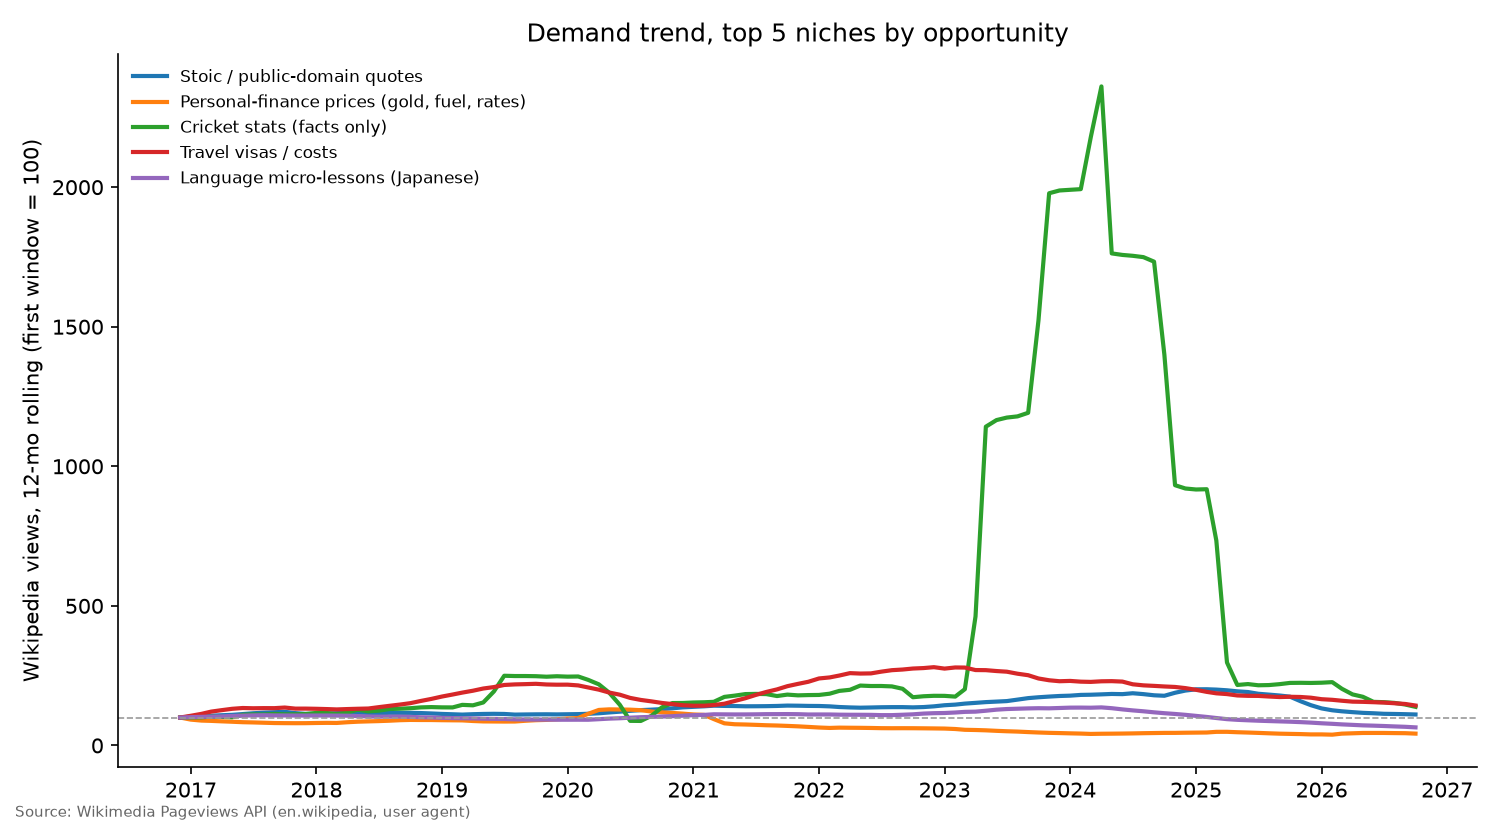
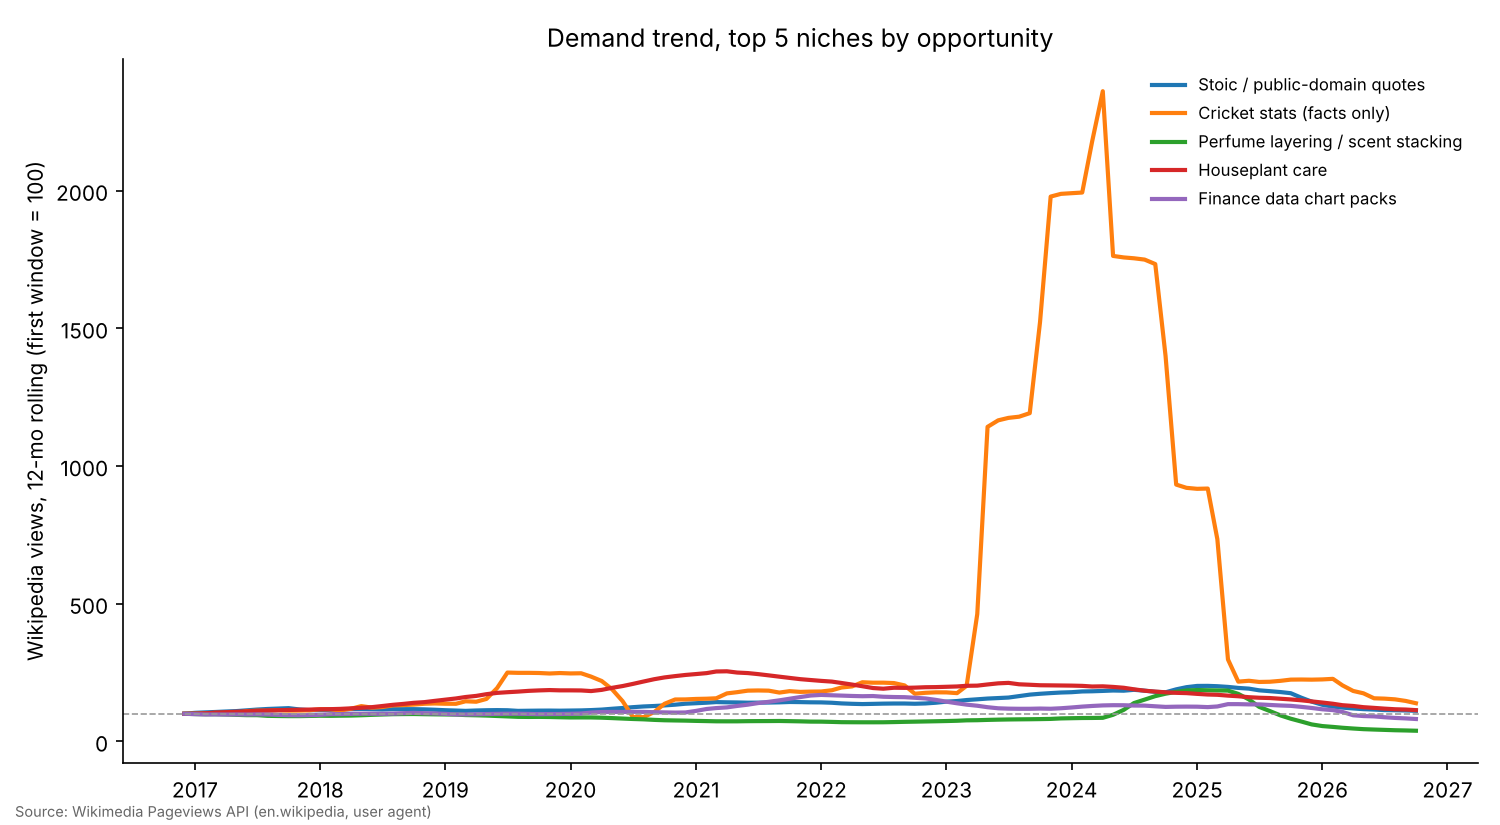
YouTube supply: exclude counts at the 1M cap, use 14-day windows
33 of 40 keyword counts over 90 days hit search.list's 1,000,000 totalResults
cap, making supply growth 1.0 by construction. Capped ratios are now excluded,
the window shortens to 14 days, and dashboards rank by opportunity only once
15+ niches have a usable supply figure.

Claude-Session: https://claude.ai/code/session_0189qJpcis24b27DHT951f51

diff --git a/docs/index.html b/docs/index.html
@@ -200,6 +200,7 @@ G_d  demand growth  = geomean(wiki_yoy, trends_yoy)
        trends_yoy   = geomean over keywords of (mean last 52 wks ÷ mean previous 52),
                       each keyword queried alone so it keeps full 0–100 resolution
 G_s  supply growth  = geomean over keywords of (videos_recent + 1) ÷ (videos_prior_year + 1)
+                      over 14-day windows; counts at YouTube's 1,000,000 cap are excluded
 P_d  demand size    = percentile rank of mean z( log wiki views, log Trends level, log Reddit subs )
 M    money weight   = niche mid RPM ÷ median mid RPM  (1.0 while pending)</div>
       </div>
@@ -355,8 +356,11 @@ M    money weight   = niche mid RPM ÷ median mid RPM  (1.0 while pending)</div>
   let selected = null;
   // Rank by opportunity once any niche has one; until then by demand growth.
   let rankKey = "opportunity";
+  const MIN_SCORED = 15;
   function ranked() {
-    rankKey = D.scores.some((r) => isFinite(num(r.opportunity))) ? "opportunity" : "demand_growth";
+    // Opportunity needs a real supply figure; rank by it only once most niches have one.
+    const scored = D.scores.filter((r) => isFinite(num(r.opportunity))).length;
+    rankKey = scored >= MIN_SCORED ? "opportunity" : "demand_growth";
     return D.scores
       .filter((r) => isFinite(num(r[rankKey])))
       .sort((a, b) => num(b[rankKey]) - num(a[rankKey]));
@@ -371,13 +375,13 @@ M    money weight   = niche mid RPM ÷ median mid RPM  (1.0 while pending)</div>
       pickName.textContent = top.niche;
       document.getElementById("pick-label").textContent = rankKey === "opportunity"
         ? "Current #1 by opportunity (provisional)"
-        : "Leading on demand growth (YouTube supply pending)";
+        : "Leading on demand growth (supply data incomplete)";
       document.getElementById("k-opp").textContent = fmt.dec(top.opportunity);
       document.getElementById("k-dg").textContent = fmt.pctChange(top.demand_growth);
       document.getElementById("k-sg").textContent = fmt.pctChange(top.supply_growth);
       const add = (t, c) => { const s = document.createElement("span"); s.className = "chip " + c; s.textContent = t; s.style.marginRight = "6px"; chips.appendChild(s); };
       add(top.money_flag === "cited" ? "money: cited" : "money: estimate pending", top.money_flag === "cited" ? "ok" : "warn");
-      if (rankKey !== "opportunity") add("ranked by demand only until YouTube data lands", "warn");
+      if (rankKey !== "opportunity") add("ranked by demand: too few niches have usable YouTube counts", "warn");
       add("needs competitor check", "warn");
       selected = selected || top.niche_id;
     } else {

diff --git a/score.py b/score.py
@@ -108,6 +108,7 @@ def wiki_metrics(wiki: pd.DataFrame) -> tuple[pd.DataFrame, pd.DataFrame]:
 
 
 MIN_BATCH_PEAK = 20  # below this, integer rounding swamps a batched series
+YT_RESULTS_CAP = 1_000_000  # search.list never reports more than this
 MAX_ZERO_WEEKS = 13  # base year with more zero weeks is too sparse for a ratio
 
 
@@ -219,13 +220,21 @@ def youtube_metrics(yt: pd.DataFrame) -> pd.DataFrame:
     needed = {"total_results_est_recent", "total_results_est_prior_year"}
     if not needed.issubset(wide.columns):
         return pd.DataFrame()
+    # YouTube caps totalResults at 1,000,000: a capped count is a floor, not a
+    # measurement, so its ratio is excluded rather than read as "no growth".
+    capped = (wide.total_results_est_recent >= YT_RESULTS_CAP) | (
+        wide.total_results_est_prior_year >= YT_RESULTS_CAP
+    )
     wide["supply_ratio"] = (wide.total_results_est_recent + 1) / (
         wide.total_results_est_prior_year + 1
     )
+    wide.loc[capped, "supply_ratio"] = np.nan
+    wide["capped"] = capped
     agg = wide.groupby("niche_id").agg(
         yt_videos_recent=("total_results_est_recent", "sum"),
         yt_videos_prior_year=("total_results_est_prior_year", "sum"),
         supply_growth=("supply_ratio", lambda s: geomean(list(s))),
+        yt_kw_capped=("capped", "sum"),
     )
     for col in ("median_views_per_day_recent", "median_views_per_sub_recent"):
         if col in wide.columns:

diff --git a/data/scores.md b/data/scores.md
@@ -1,22 +1,22 @@
 |   rank | niche                                       |   opportunity |   demand_growth |   supply_growth |   demand_size_pct |   money_weight | money_flag   |   wiki_monthly_median_12m |   wiki_yoy |   trends_yoy |   yt_videos_recent |   yt_videos_prior_year |
 |-------:|:--------------------------------------------|--------------:|----------------:|----------------:|------------------:|---------------:|:-------------|--------------------------:|-----------:|-------------:|-------------------:|-----------------------:|
-|      1 | Stoic / public-domain quotes                |         1.3   |           0.803 |           0.602 |              0.95 |            nan | pending      |                  2.63e+05 |      0.635 |        1.02  |            1158700 |                1437522 |
-|      2 | Personal-finance prices (gold, fuel, rates) |         1.13  |           1.46  |           1     |              0.6  |            nan | pending      |                  2.1e+04  |      1.02  |        2.09  |            2000000 |                2000000 |
-|      3 | Cricket stats (facts only)                  |         1.06  |           1.18  |           1.11  |              1    |            nan | pending      |                  3.24e+05 |      0.617 |        2.25  |            1874276 |                1710895 |
-|      4 | Travel visas / costs                        |         0.968 |           1.12  |           1     |              0.75 |            nan | pending      |                  6.6e+04  |      0.821 |        1.52  |            2000000 |                2000000 |
-|      5 | Language micro-lessons (Japanese)           |         0.952 |           1     |           1     |              0.9  |            nan | pending      |                  1.69e+05 |      0.761 |        1.32  |            2000000 |                2000000 |
-|      6 | Pet care data                               |         0.913 |           1.02  |           1     |              0.8  |            nan | pending      |                  8.17e+04 |      0.752 |        1.38  |            2000000 |                2000000 |
-|      7 | Rocket launches / space schedule            |         0.878 |           1.09  |           1     |              0.65 |            nan | pending      |                  1.08e+05 |      0.783 |        1.52  |            2000000 |                2000000 |
-|      8 | Perfume layering / scent stacking           |         0.789 |           1.01  |           0.286 |              0.05 |            nan | pending      |                  2.39e+04 |      0.468 |        2.17  |             495591 |                1746468 |
-|      9 | Cabbage / budget recipes                    |         0.771 |           1.22  |           1     |              0.4  |            nan | pending      |                  8.51e+04 |      0.747 |        1.99  |            2000000 |                2000000 |
-|     10 | Earthquakes / natural events                |         0.766 |           0.831 |           1     |              0.85 |            nan | pending      |                  8.65e+04 |      0.699 |        0.988 |            2000000 |                2000000 |
-|     11 | Baby names (open data)                      |         0.721 |           1.07  |           1     |              0.45 |            nan | pending      |                  4.98e+04 |      0.813 |        1.42  |            2000000 |                2000000 |
-|     12 | Geography quizzes                           |         0.71  |           0.958 |           1     |              0.55 |            nan | pending      |                  1.44e+05 |      0.862 |        1.06  |            2000000 |                2000000 |
-|     13 | "On this day" history                       |         0.62  |           1.13  |           1     |              0.3  |            nan | pending      |                  3.66e+04 |      0.754 |        1.7   |            2000000 |                2000000 |
-|     14 | Chess puzzles (Lichess CC0 DB)              |         0.56  |           0.946 |           1     |              0.35 |            nan | pending      |                  1.2e+05  |      0.586 |        1.53  |            2000000 |                2000000 |
-|     15 | Etymology / word origins                    |         0.559 |           1.12  |           1     |              0.25 |            nan | pending      |                  2.47e+04 |      0.817 |        1.53  |            2000000 |                2000000 |
-|     16 | Finance data chart packs                    |         0.474 |           0.818 |           1.44  |              0.7  |            nan | pending      |                  1.34e+05 |      0.629 |        1.06  |            1434942 |                1208506 |
-|     17 | Houseplant care                             |         0.461 |           1.38  |           0.946 |              0.1  |            nan | pending      |                  4.09e+04 |      0.744 |        2.55  |            1811768 |                1907479 |
-|     18 | Air quality / weather records               |         0.454 |           1.12  |           1.1   |              0.2  |            nan | pending      |                  2.92e+04 |      0.59  |        2.13  |            2000000 |                1821647 |
-|     19 | Nostalgia toys                              |         0.437 |           1.13  |           1     |              0.15 |            nan | pending      |                  6.1e+04  |      0.741 |        1.72  |            2000000 |                2000000 |
-|     20 | Night sky / astronomy                       |         0.232 |           0.858 |           2.61  |              0.5  |            nan | pending      |                  5.84e+04 |      0.761 |        0.968 |            1148855 |                1021777 |
+|      1 | Stoic / public-domain quotes                |        2.16   |           0.803 |           0.363 |              0.95 |            nan | pending      |                  2.63e+05 |      0.635 |        1.02  |            1158700 |                1437522 |
+|      2 | Cricket stats (facts only)                  |        0.957  |           1.18  |           1.23  |              1    |            nan | pending      |                  3.24e+05 |      0.617 |        2.25  |            1874276 |                1710895 |
+|      3 | Perfume layering / scent stacking           |        0.789  |           1.01  |           0.286 |              0.05 |            nan | pending      |                  2.39e+04 |      0.468 |        2.17  |             495591 |                1746468 |
+|      4 | Houseplant care                             |        0.487  |           1.38  |           0.895 |              0.1  |            nan | pending      |                  4.09e+04 |      0.744 |        2.55  |            1811768 |                1907479 |
+|      5 | Finance data chart packs                    |        0.328  |           0.818 |           2.09  |              0.7  |            nan | pending      |                  1.34e+05 |      0.629 |        1.06  |            1434942 |                1208506 |
+|      6 | Night sky / astronomy                       |        0.0888 |           0.858 |           6.84  |              0.5  |            nan | pending      |                  5.84e+04 |      0.761 |        0.968 |            1148855 |                1021777 |
+|    nan | Nostalgia toys                              |      nan      |           1.13  |         nan     |              0.15 |            nan | pending      |                  6.1e+04  |      0.741 |        1.72  |            2000000 |                2000000 |
+|    nan | Cabbage / budget recipes                    |      nan      |           1.22  |         nan     |              0.4  |            nan | pending      |                  8.51e+04 |      0.747 |        1.99  |            2000000 |                2000000 |
+|    nan | Geography quizzes                           |      nan      |           0.958 |         nan     |              0.55 |            nan | pending      |                  1.44e+05 |      0.862 |        1.06  |            2000000 |                2000000 |
+|    nan | Personal-finance prices (gold, fuel, rates) |      nan      |           1.46  |         nan     |              0.6  |            nan | pending      |                  2.1e+04  |      1.02  |        2.09  |            2000000 |                2000000 |
+|    nan | Pet care data                               |      nan      |           1.02  |         nan     |              0.8  |            nan | pending      |                  8.17e+04 |      0.752 |        1.38  |            2000000 |                2000000 |
+|    nan | Travel visas / costs                        |      nan      |           1.12  |         nan     |              0.75 |            nan | pending      |                  6.6e+04  |      0.821 |        1.52  |            2000000 |                2000000 |
+|    nan | Baby names (open data)                      |      nan      |           1.07  |         nan     |              0.45 |            nan | pending      |                  4.98e+04 |      0.813 |        1.42  |            2000000 |                2000000 |
+|    nan | Etymology / word origins                    |      nan      |           1.12  |         nan     |              0.25 |            nan | pending      |                  2.47e+04 |      0.817 |        1.53  |            2000000 |                2000000 |
+|    nan | "On this day" history                       |      nan      |           1.13  |         nan     |              0.3  |            nan | pending      |                  3.66e+04 |      0.754 |        1.7   |            2000000 |                2000000 |
+|    nan | Air quality / weather records               |      nan      |           1.12  |         nan     |              0.2  |            nan | pending      |                  2.92e+04 |      0.59  |        2.13  |            2000000 |                1821647 |
+|    nan | Earthquakes / natural events                |      nan      |           0.831 |         nan     |              0.85 |            nan | pending      |                  8.65e+04 |      0.699 |        0.988 |            2000000 |                2000000 |
+|    nan | Rocket launches / space schedule            |      nan      |           1.09  |         nan     |              0.65 |            nan | pending      |                  1.08e+05 |      0.783 |        1.52  |            2000000 |                2000000 |
+|    nan | Language micro-lessons (Japanese)           |      nan      |           1     |         nan     |              0.9  |            nan | pending      |                  1.69e+05 |      0.761 |        1.32  |            2000000 |                2000000 |
+|    nan | Chess puzzles (Lichess CC0 DB)              |      nan      |           0.946 |         nan     |              0.35 |            nan | pending      |                  1.2e+05  |      0.586 |        1.53  |            2000000 |                2000000 |
